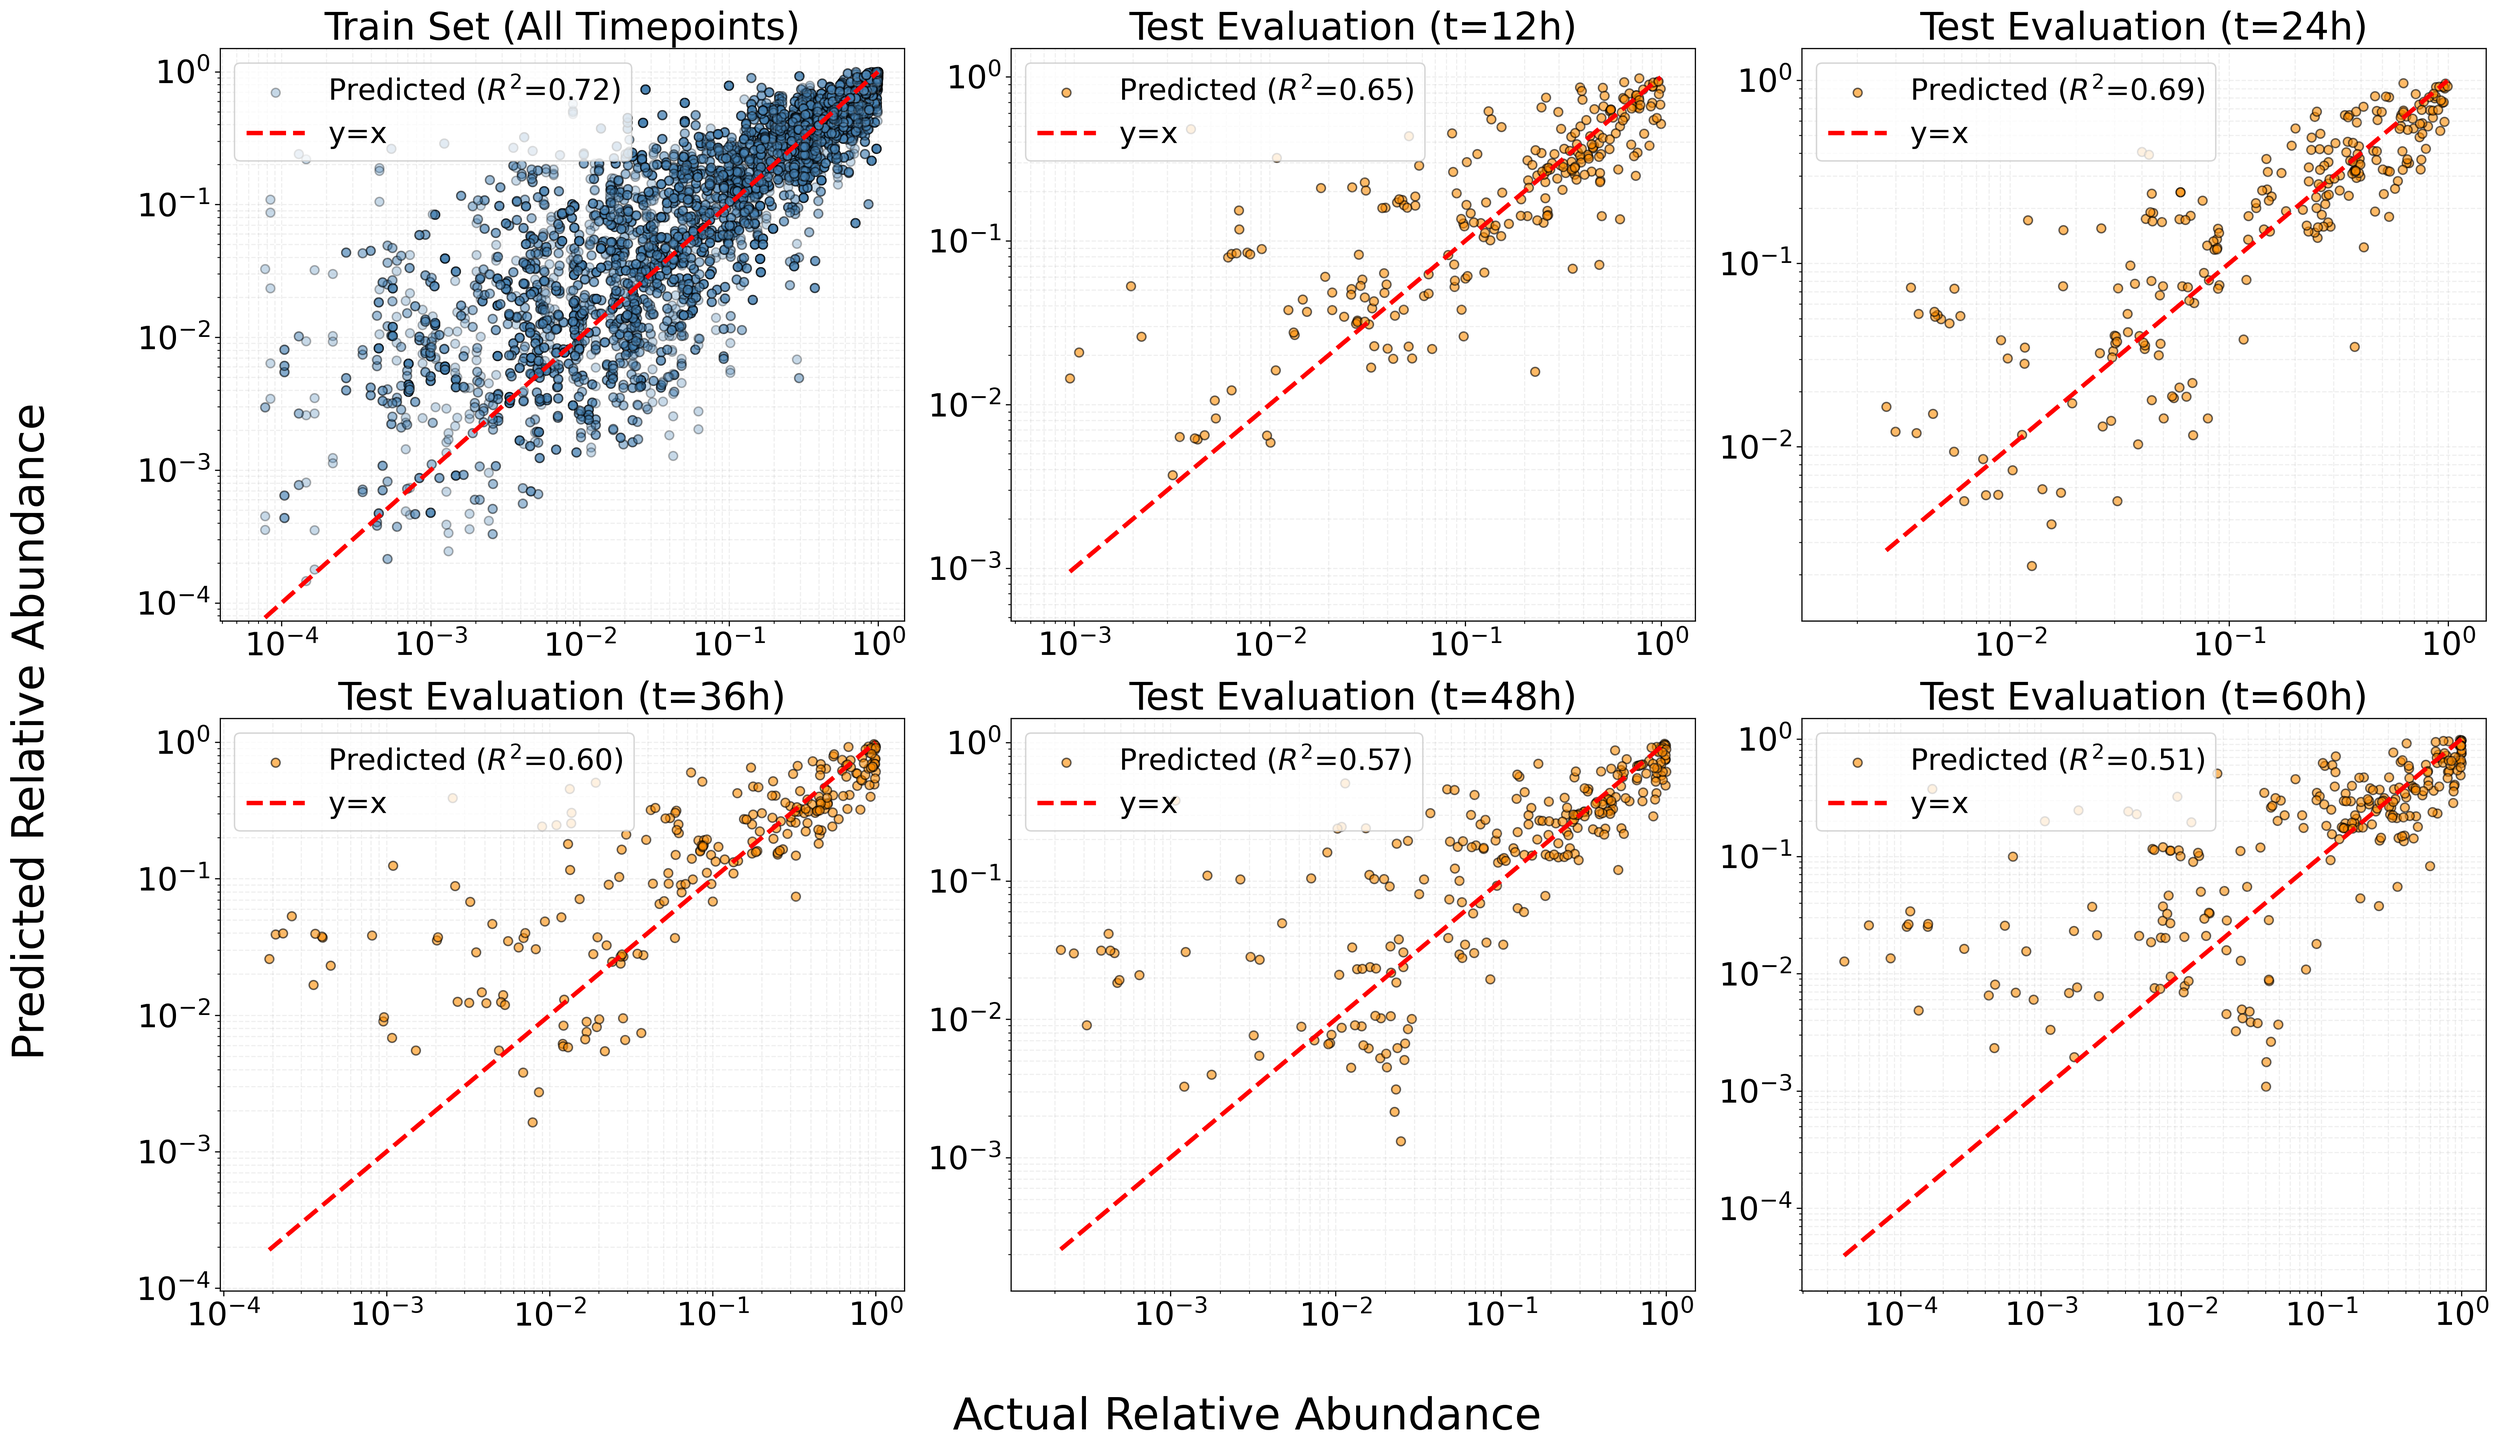
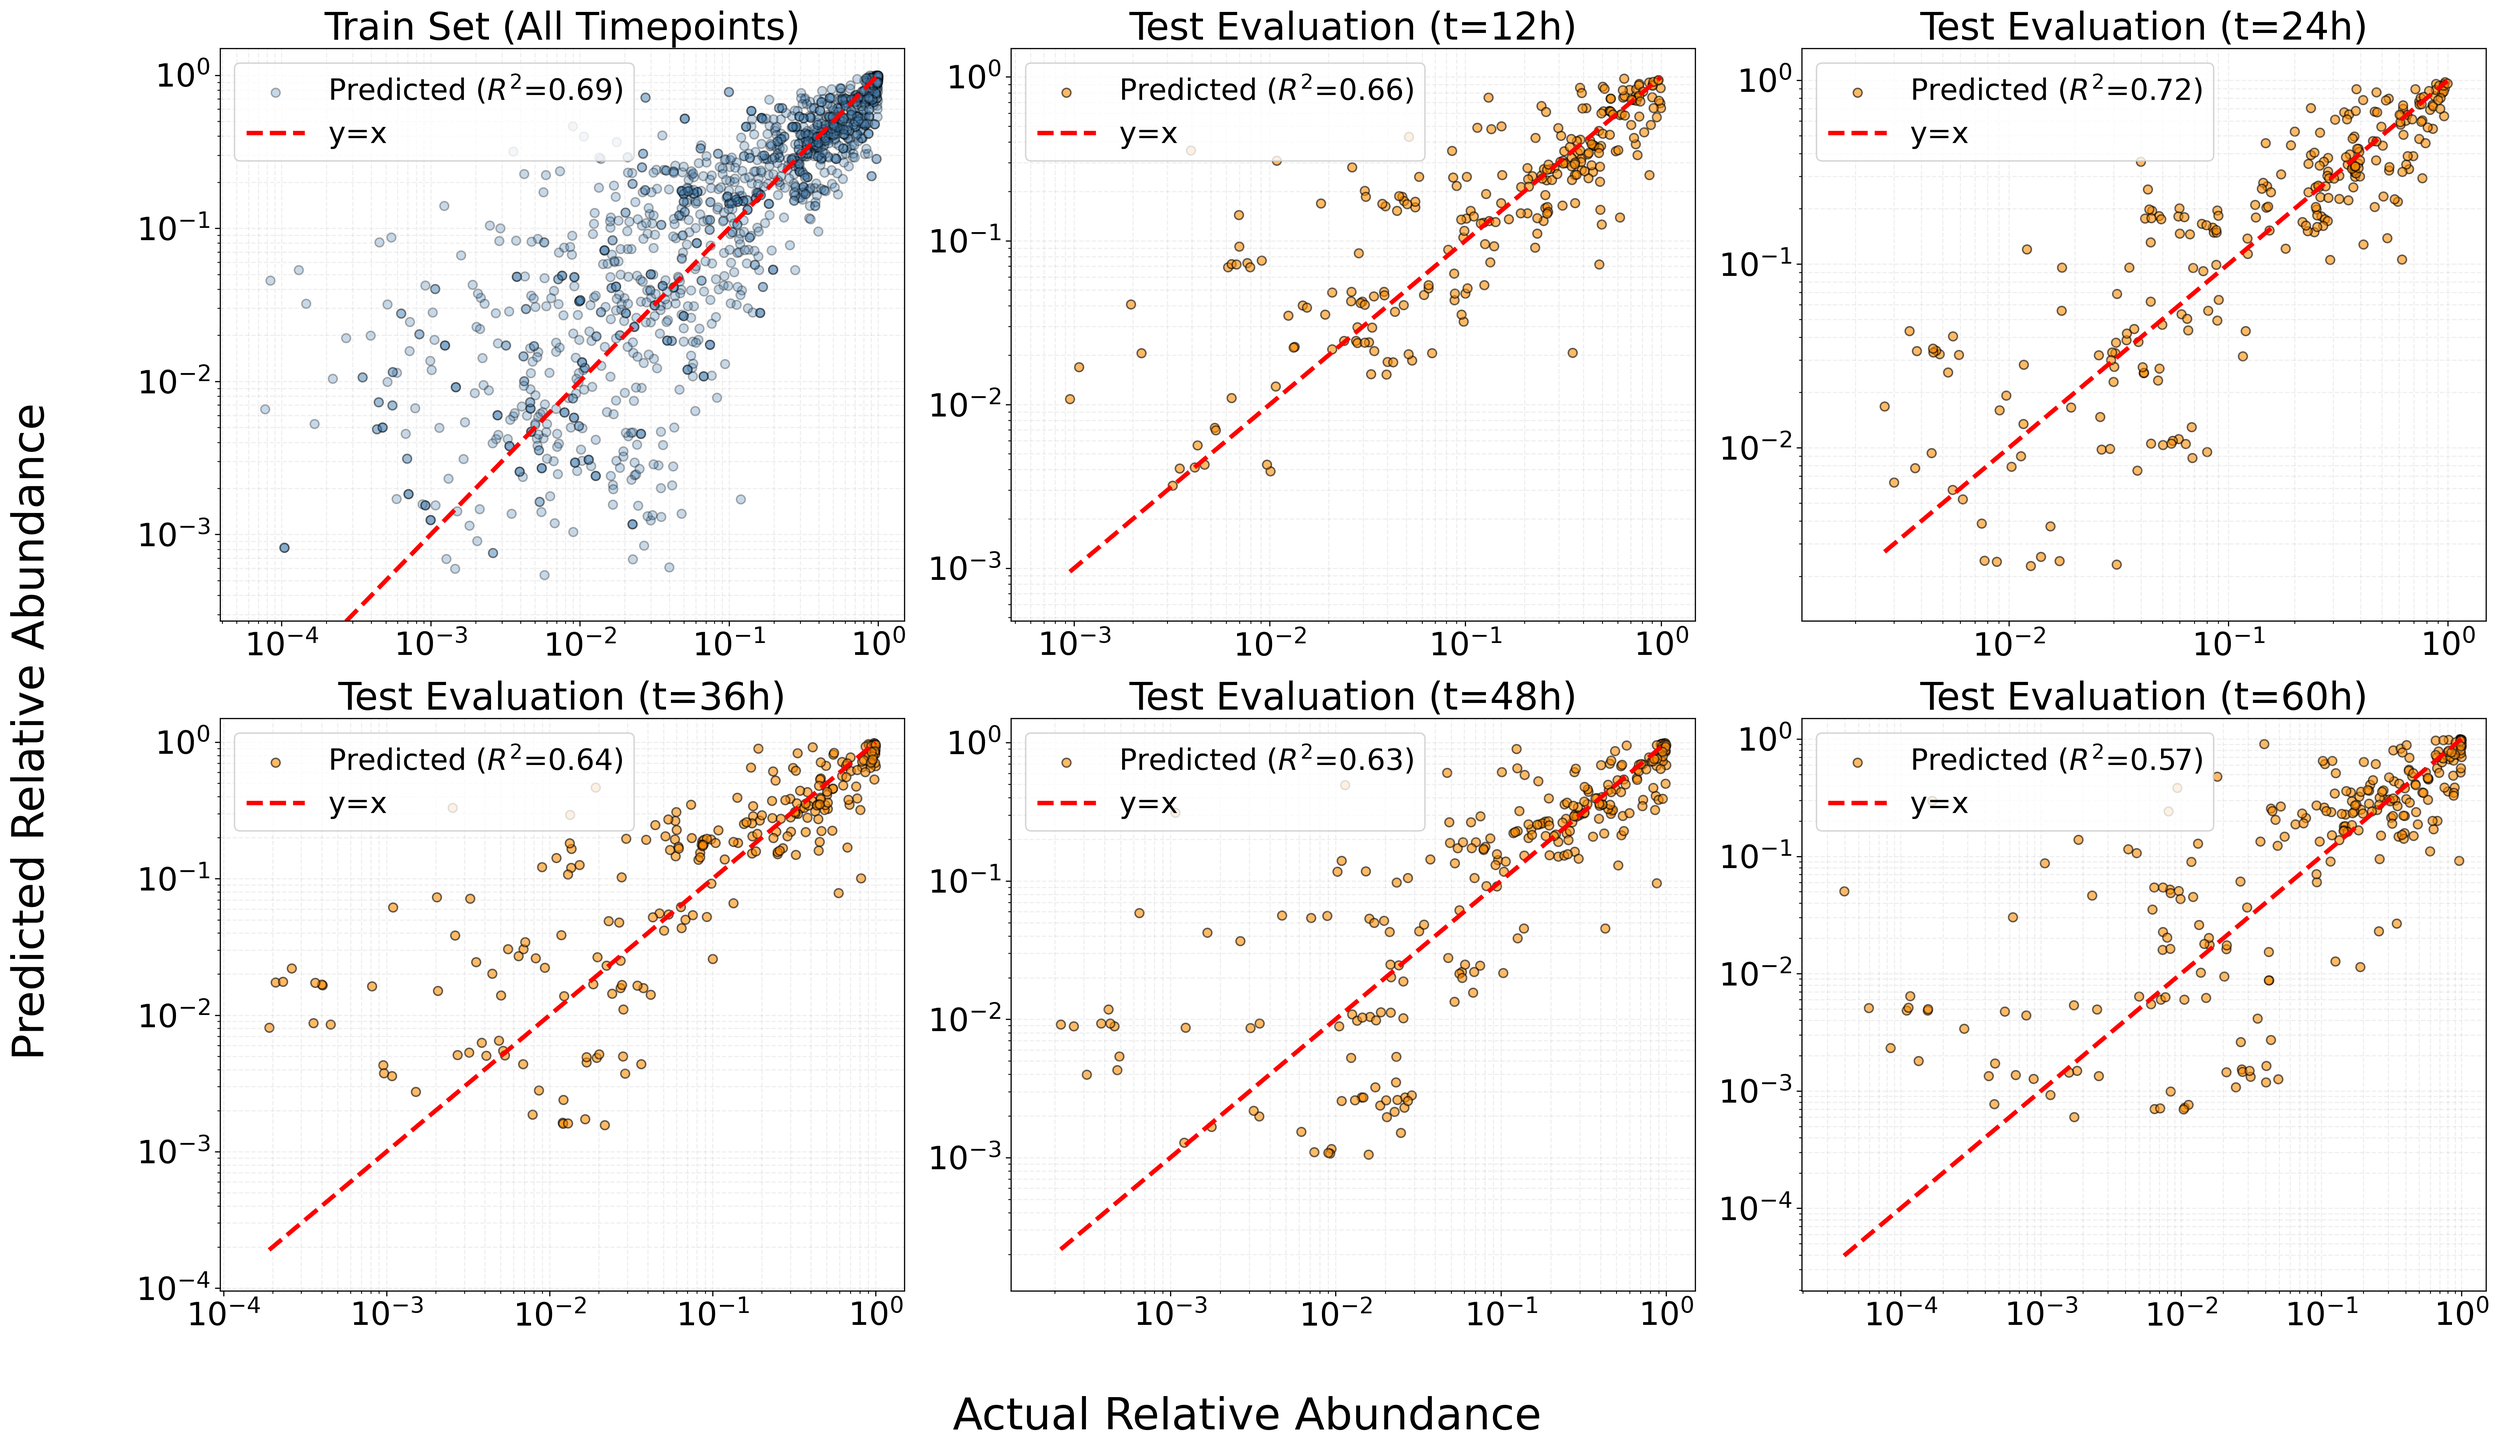
Updating github

diff --git a/src/Ophelia_evaluation.py b/src/Ophelia_evaluation.py
@@ -16,7 +16,7 @@ from SerialDilutionModels import LatentAssemblyModel, LatentAssemblyNeuralODE
 def load_venturelli_arrays(train_array, val_array, test_array, max_grouping_length=None):
     """
     Parses 3D RNN Tensors of shape (num_samples, time_steps, num_species).
-    Converts absolute abundances to relative abundances and extracts valid trajectories.
+    Converts absolute abundances to relative abundances and extracts full multi-passage trajectories.
     """
     print(f"Parsing Venturelli datasets...")
     
@@ -45,13 +45,8 @@ def load_venturelli_arrays(train_array, val_array, test_array, max_grouping_leng
                 continue # Need at least t0 and t1 to train/eval
                 
             if is_train:
-                # Generate all causal windows for training/validation
-                n_train = len(valid_timepoints)
-                for i in range(n_train - 1):
-                    for j in range(i + 1, n_train):
-                        sub_seq = valid_timepoints[i:j+1]
-                        if max_grouping_length is None or len(sub_seq) <= max_grouping_length:
-                            trajectories.append((torch.tensor(np.array(sub_seq), dtype=torch.float32), 0))
+                # Keep full multi-passage trajectory for training/validation
+                trajectories.append((torch.tensor(np.array(valid_timepoints), dtype=torch.float32), 0))
             else:
                 # Test set keeps the full trajectory to test multi-step unrolling
                 trajectories.append((torch.tensor(np.array(valid_timepoints), dtype=torch.float32), 0, f"Sample_{sample_idx}", valid_labels))
@@ -65,7 +60,7 @@ def load_venturelli_arrays(train_array, val_array, test_array, max_grouping_leng
     strains = [f"Species_{i+1}" for i in range(num_species)]
     valid_conds = ["standard_media"] 
     
-    print(f"Extracted {len(train_trajectories)} Train, {len(val_trajectories)} Val, and {len(test_trajectories)} Test causal trajectories.")
+    print(f"Extracted {len(train_trajectories)} Train, {len(val_trajectories)} Val, and {len(test_trajectories)} Test full trajectories.")
     return train_trajectories, val_trajectories, test_trajectories, num_species, strains, valid_conds
 
 
@@ -459,7 +454,7 @@ if __name__ == "__main__":
                 sys.stdout.write(text)
                 sys.stdout.flush()
                 
-                model = LatentAssemblyAssembly(num_species=NUM_SPECIES, num_latent_dims=k_val, num_conditions=num_conds)
+                model = LatentAssemblyModel(num_species=NUM_SPECIES, num_latent_dims=k_val, num_conditions=num_conds)
                 
                 trained_model, train_loss_hist, val_loss_hist = train_model(
                     model, train_trajectories, val_trajectories,

diff --git a/src/Ophelia_ODE_evaluation.py b/src/Ophelia_ODE_evaluation.py
@@ -15,7 +15,7 @@ from SerialDilutionModels import LatentAssemblyModel, LatentAssemblyNeuralODE
 def load_venturelli_arrays(train_array, val_array, test_array, max_grouping_length=None):
     """
     Parses 3D RNN Tensors of shape (num_samples, time_steps, num_species).
-    Converts absolute abundances to relative abundances and extracts valid trajectories.
+    Converts absolute abundances to relative abundances and extracts full multi-passage trajectories.
     """
     print(f"Parsing Venturelli datasets...")
     
@@ -44,13 +44,8 @@ def load_venturelli_arrays(train_array, val_array, test_array, max_grouping_leng
                 continue # Need at least t0 and t1 to train/eval
                 
             if is_train:
-                # Generate all causal windows for training/validation
-                n_train = len(valid_timepoints)
-                for i in range(n_train - 1):
-                    for j in range(i + 1, n_train):
-                        sub_seq = valid_timepoints[i:j+1]
-                        if max_grouping_length is None or len(sub_seq) <= max_grouping_length:
-                            trajectories.append((torch.tensor(np.array(sub_seq), dtype=torch.float32), 0))
+                # Keep full multi-passage trajectory for training/validation
+                trajectories.append((torch.tensor(np.array(valid_timepoints), dtype=torch.float32), 0))
             else:
                 # Test set keeps the full trajectory to test multi-step unrolling
                 trajectories.append((torch.tensor(np.array(valid_timepoints), dtype=torch.float32), 0, f"Sample_{sample_idx}", valid_labels))
@@ -64,7 +59,7 @@ def load_venturelli_arrays(train_array, val_array, test_array, max_grouping_leng
     strains = [f"Species_{i+1}" for i in range(num_species)]
     valid_conds = ["standard_media"] 
     
-    print(f"Extracted {len(train_trajectories)} Train, {len(val_trajectories)} Val, and {len(test_trajectories)} Test causal trajectories.")
+    print(f"Extracted {len(train_trajectories)} Train, {len(val_trajectories)} Val, and {len(test_trajectories)} Test full trajectories.")
     return train_trajectories, val_trajectories, test_trajectories, num_species, strains, valid_conds
 
 def train_model(model, train_trajectories, eval_trajectories, epochs=1500, lr=0.02, l1_lambda=0.0, l2_lambda=0.4, verbose=True):

diff --git a/src/Ophelia_linear_markov_evaluation.py b/src/Ophelia_linear_markov_evaluation.py
@@ -16,7 +16,7 @@ from SerialDilutionModels import LinearSoftmaxModel
 def load_venturelli_arrays(train_array, val_array, test_array, max_grouping_length=None):
     """
     Parses 3D RNN Tensors of shape (num_samples, time_steps, num_species).
-    Converts absolute abundances to relative abundances and extracts valid trajectories.
+    Converts absolute abundances to relative abundances and extracts full multi-passage trajectories.
     """
     print("Parsing Venturelli datasets...")
     num_species = train_array.shape[2]
@@ -44,13 +44,8 @@ def load_venturelli_arrays(train_array, val_array, test_array, max_grouping_leng
                 continue # Need at least t0 and t1 to train/eval
                 
             if is_train:
-                # Generate all causal windows for training/validation
-                n_train = len(valid_timepoints)
-                for i in range(n_train - 1):
-                    for j in range(i + 1, n_train):
-                        sub_seq = valid_timepoints[i:j+1]
-                        if max_grouping_length is None or len(sub_seq) <= max_grouping_length:
-                            trajectories.append((torch.tensor(np.array(sub_seq), dtype=torch.float32), 0))
+                # Keep full multi-passage trajectory for training/validation
+                trajectories.append((torch.tensor(np.array(valid_timepoints), dtype=torch.float32), 0))
             else:
                 # Test set keeps the full trajectory to test multi-step unrolling
                 trajectories.append((torch.tensor(np.array(valid_timepoints), dtype=torch.float32), 0, f"Sample_{sample_idx}", valid_labels))
@@ -64,7 +59,7 @@ def load_venturelli_arrays(train_array, val_array, test_array, max_grouping_leng
     strains = [f"Species_{i+1}" for i in range(num_species)]
     valid_conds = ["standard_media"] 
     
-    print(f"Extracted {len(train_trajectories)} Train, {len(val_trajectories)} Val, and {len(test_trajectories)} Test causal trajectories.")
+    print(f"Extracted {len(train_trajectories)} Train, {len(val_trajectories)} Val, and {len(test_trajectories)} Test full trajectories.")
     return train_trajectories, val_trajectories, test_trajectories, num_species, strains, valid_conds
 
 
